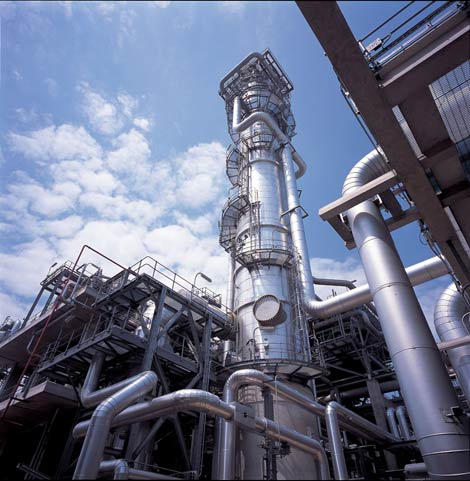
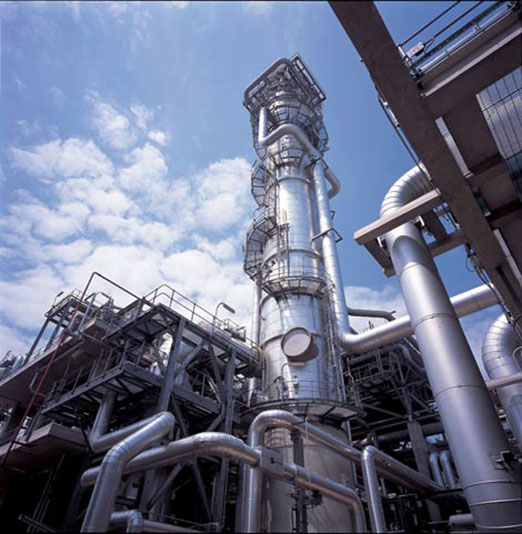
pics

diff --git a/home/templates/index.html b/home/templates/index.html
@@ -740,8 +740,8 @@ vi)	Liquid Export Recycle Cooler Project
 					</li>
 
 					<li class="mix app">
-						<a href="javascript:void(0)" data-largesrc="{% static 'img/portfolio/dcf.png' %}" data-title="DCF Engineering SdnBhd" data-description="">
-							<img src="{% static 'img/portfolio/dcf.png' %}" alt="Masterscan">
+						<a href="javascript:void(0)" data-largesrc="{% static 'img/portfolio/dcf.jpg' %}" data-title="DCF Engineering SdnBhd" data-description="">
+							<img src="{% static 'img/portfolio/dcf.jpg' %}" alt="Masterscan">
 							<div class="hover-mask">
 								<h3>DCF Engineering SdnBhd</h3>
 								<span>
@@ -885,8 +885,8 @@ vi)	Liquid Export Recycle Cooler Project
 					</li>
 
 					<li class="mix app">
-						<a href="javascript:void(0)" data-largesrc="{% static 'img/portfolio/helios.gif' %}" data-title="Punj Lloyd Ltd., Bulk liquid Production Terminal at Horizon & Helios Terminal" data-description="">
-							<img src="{% static 'img/portfolio/helios.gif' %}" alt="Masterscan">
+						<a href="javascript:void(0)" data-largesrc="{% static 'img/portfolio/helios.jpg' %}" data-title="Punj Lloyd Ltd., Bulk liquid Production Terminal at Horizon & Helios Terminal" data-description="">
+							<img src="{% static 'img/portfolio/helios.jpg' %}" alt="Masterscan">
 							<div class="hover-mask">
 								<h3>Punj Lloyd Ltd., Bulk liquid Production Terminal at Horizon &amp; Helios Terminal</h3>
 								<span>
@@ -945,8 +945,8 @@ vi)	Liquid Export Recycle Cooler Project
 					</li>
 
 					<li class="mix app">
-						<a href="javascript:void(0)" data-largesrc="{% static 'img/portfolio/foster.png' %}" data-title="Foster Wheeler Ltd., for  SPT-LVN coalescer Facility Installation Project" data-description="">
-							<img src="{% static 'img/portfolio/foster.png' %}" alt="Masterscan">
+						<a href="javascript:void(0)" data-largesrc="{% static 'img/portfolio/foster.jpg' %}" data-title="Foster Wheeler Ltd., for  SPT-LVN coalescer Facility Installation Project" data-description="">
+							<img src="{% static 'img/portfolio/foster.jpg' %}" alt="Masterscan">
 							<div class="hover-mask">
 								<h3>Foster Wheeler Ltd., for  SPT-LVN coalescer Facility Installation Project</h3>
 								<span>
